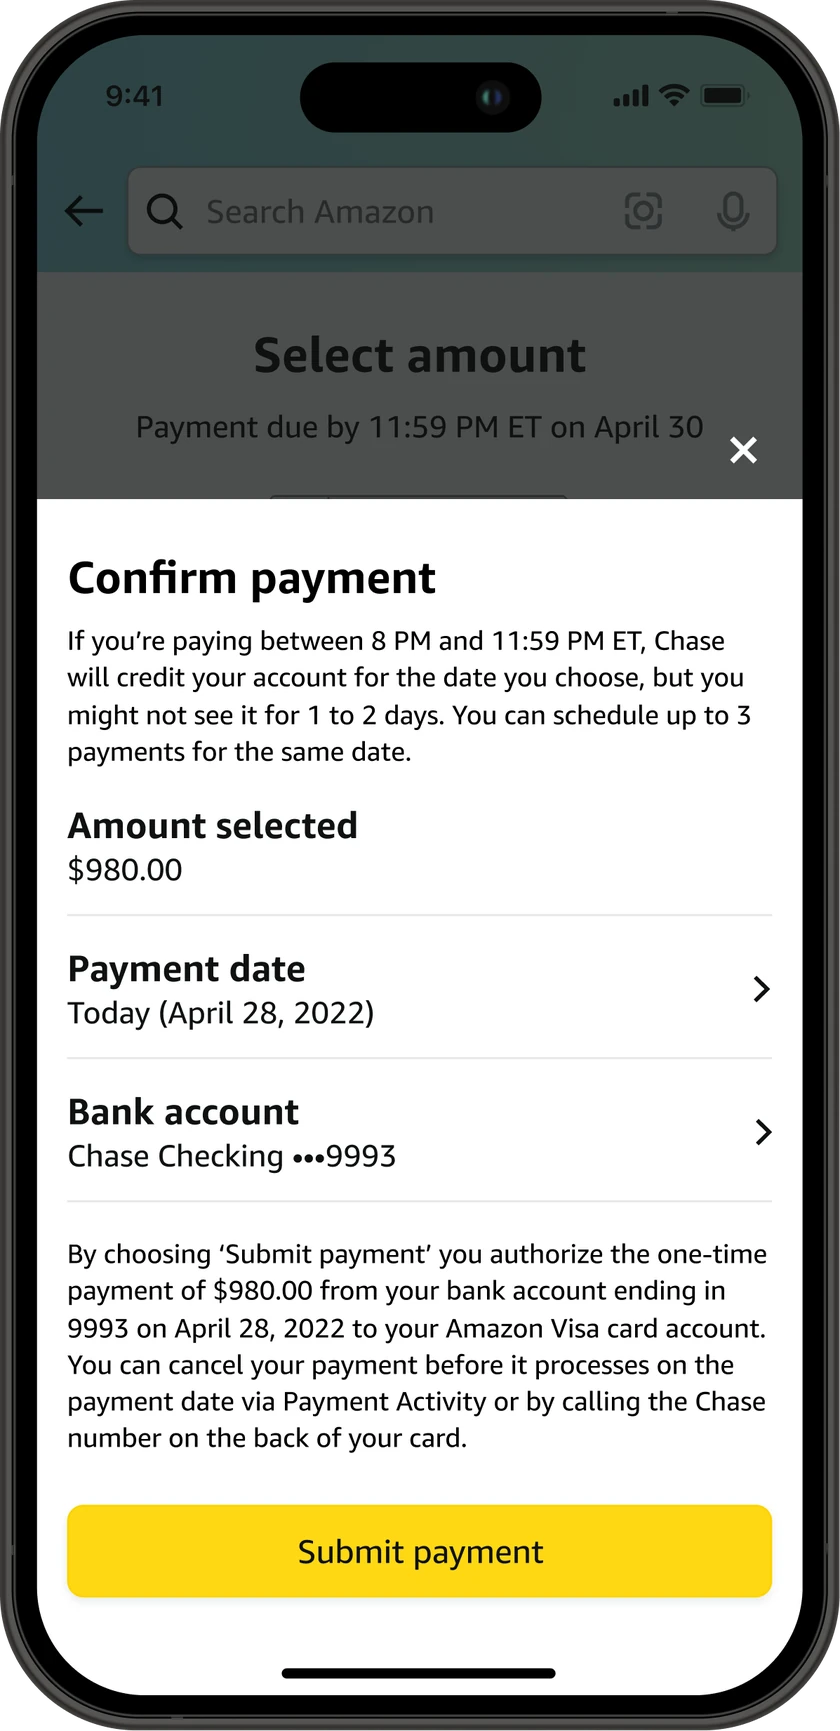
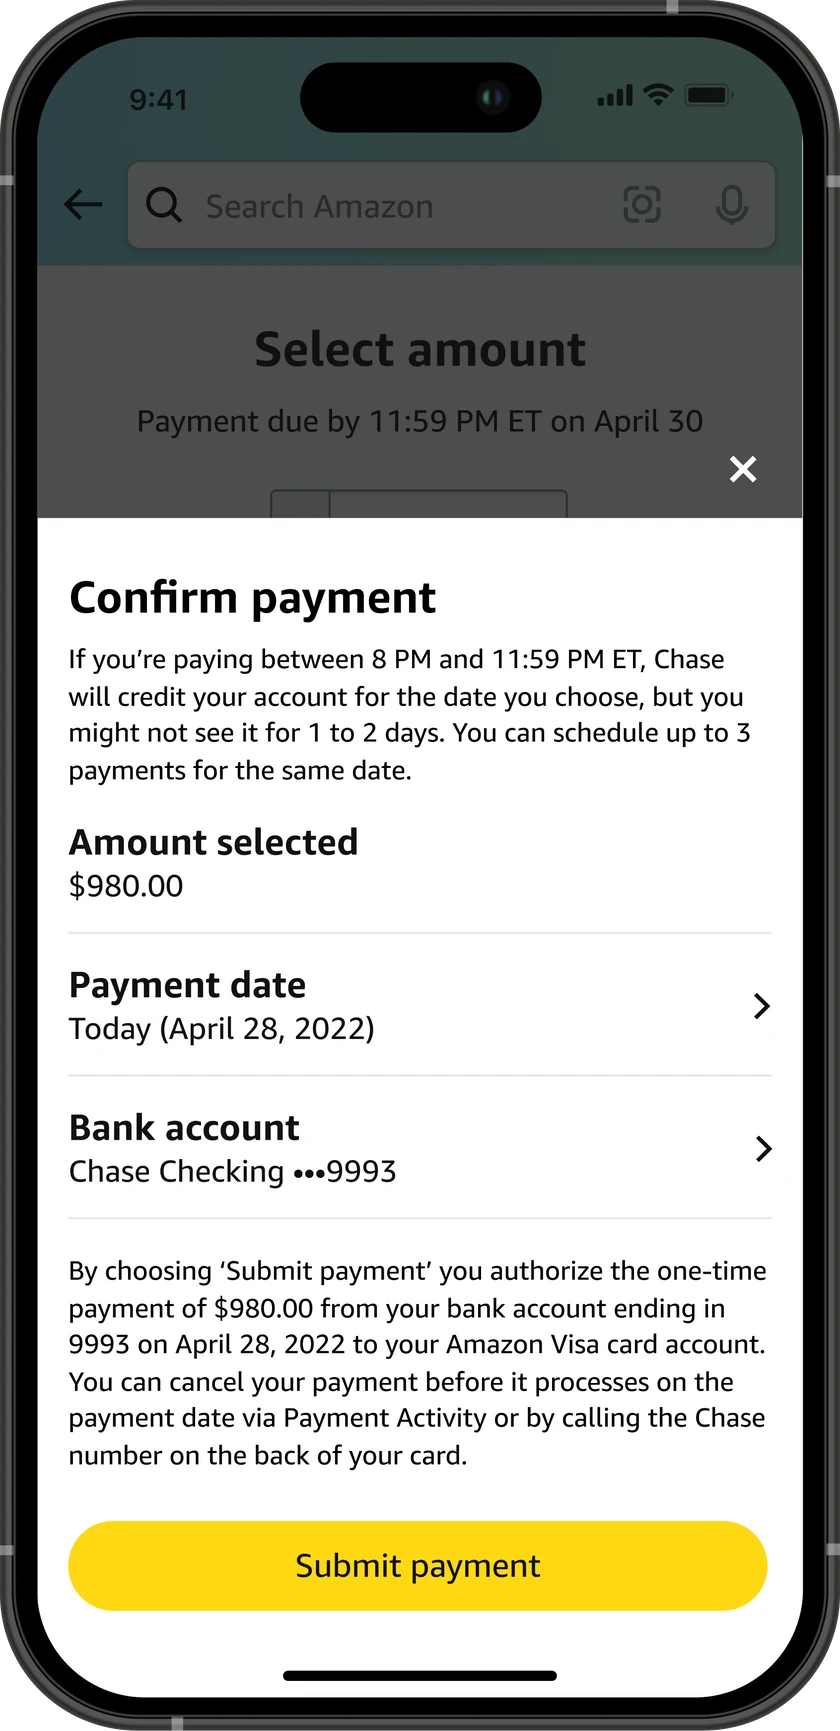
Rebuild the Pay Bill Confirm payment screen from node 2445:47493
Every figure and every word on the screen is identical. Two things moved:
the Submit payment button is a pill where it was a rounded rectangle, the
same change the Continue button made in iteration 66, and the whole screen
sits 17px lower, found by sliding the two ink row profiles against each
other rather than reading 640 differing rows as 640 changes.

Two of iteration 66's findings were checked and do not hold here, so they
are not repeated: the bezel is 37px in this and every other Pay Bill phone
asset, and the header search field is the same width in the same place.

Payment submitted beside it was left alone on purpose. That pair is two
different screens, not one screen twice, and the confirmation has no
button for a pill to disagree with.

840 x 1731 unchanged, so no markup attribute moved. Alt text and caption
still accurate word for word. Audit all clean, 8 pages x 5 viewports.

diff --git a/work/pay-bill.html b/work/pay-bill.html
@@ -341,6 +341,13 @@
           </figure>
         </div>
 
+        <!-- The two steps after the amount. The confirm sheet was rebuilt in
+             iteration 69 from node 2445:47493, which brings its Submit payment
+             button into line with the pill Continue button on the pair above;
+             nothing on it says anything different. Payment submitted was left
+             alone deliberately and it is not the iteration 66 situation: these
+             are two different screens rather than one screen twice, and the
+             submitted screen has no button to disagree about. -->
         <div class="shots shots--pair">
           <figure class="shot">
             <div class="shot__frame shot__frame--device">

diff --git a/DESIGN-SYSTEM.md b/DESIGN-SYSTEM.md
@@ -81,6 +81,7 @@ iterations/24-card-dashboard-goals-trim/  the second paragraph and the whole fou
 iterations/25-card-dashboard-team-role/  Card Dashboard section 03 replaced with the user's own team roster and a prose responsibilities sentence, retiring the UX working group paragraph and its five item .case-list. removed.html has both plus the old hero .case-meta Team value, which had to change in the same edit or the page stated the team two ways. Records why the rail keeps the short form, why 4&nbsp;Engineers carries a non-breaking space, and the two claims that came out of the copy and where each still lives on the page.
 iterations/26-card-dashboard-servicing-linked-only/  a one sentence factual correction in Card Dashboard section 04: servicing kept the top of the page for linked customers only, because on-Amazon servicing is gated on account linking, not "in both cases". No markup change. Also flags the framework figcaption's "hold fixed placement in both", which makes a similar claim about the header, quick action pills and balance and was left alone because it describes what is drawn on that board.
 iterations/27-card-dashboard-chase-linking/  Card Dashboard section 04 second paragraph: the unserved segment would not link their Chase account, not their "bank account", and they managed the card at Chase's app/website. Adds the gating rule that linking the Amazon and Chase accounts was required for on-Amazon servicing, which is what makes "most of the page was dead weight" follow rather than assert. Records why "bank account" was wrong here and right on Pay Bill, where it survives nine times.
+iterations/69-confirm-payment-new-frame/  **the Confirm payment screen rebuilt from the current Figma frame**, node `2445:47493`, asked for by pasting a screenshot of the live asset beside the node: *"update this image with this: [node-id=2445-47493]"*. `assets/img/pay-bill/otp-confirm-payment.webp` is the left half of the second `.shots--pair` in Pay Bill section 05, and `proc.py` here is the encoder of record for a file that had none, since iterations 08 through 11 cover the Pay Bill screens as a set without naming any one file or its crop. Everything below the docstring is a copy of iteration 67's, which is 66's, which is 65's: same keyer, same assertions, 840 x 1731, and that size is a constraint rather than a default because the pair's other half is `otp-payment-submitted.webp` and the two have to match. **Every figure and every word on the screen is identical**, $980.00 selected, Today (April 28, 2022), Chase Checking ***9993, the same 8 PM to 11:59 PM ET paragraph and the same authorization paragraph. Two things moved: the **Submit payment button is a pill** where it was a rounded rectangle, the same change the Continue button made in iteration 66, so this rebuild brings the section's button shapes into agreement rather than splitting them; and the **whole screen sits 17px lower**, about 8 CSS px where it renders, found by sliding the two dark ink row profiles against each other (mean absolute difference 59.1 at zero offset, 17.2 at +17), which is what accounts for the 640 rows a naive comparison flags as changed. **Two of iteration 66's findings were checked here and do not hold**, which is why they are not repeated: the bezel is not thinner, it is 37px at mid height in this file and in every other Pay Bill phone asset including the old generation, and the header search field has not widened, cropped from both files and compared it is the same width in the same place 17px lower. **Payment submitted was left alone on purpose and this is not the iteration 66 situation**, checked before deciding: that pair was one screen shown twice, where two button shapes read as two different screens, and this pair is two different screens of which the confirmation **has no button** for a pill to disagree with, and the same 37px bezel. What it does leave is section 05 holding two generations of the app's button shape, pills on the three rebuilt screens and rounded rectangles on the autopay, bank accounts and activity screens below; none of those is adjacent to a pill so nothing reads as a contradiction, and the nodes for those six are not known. Output 93,038 bytes against 97,146, alpha bbox (0, 0, 840, 1731), so no `width` or `height` attribute moved; the export was 1692 x 3487 on the same `#F5F5F5` with the same (63, 61, 59) bezel and the 505 background-run rows assertion passed, which is the check on the frame geometry. The alt text and caption did not change: the alt names the amount selected, the payment date, the bank account, the 8 PM cutoff and the button, all still true, and a button radius is not a fact a screen reader user needs. One comment was added to `work/pay-bill.html` above the pair recording the rebuild and why the right half was left. Ports 23629 and 23633, `/tmp/audit57.py` over 8 pages and 5 viewports **ALL CLEAN**, resolution ratio 1.06 at 1512 and 1.00 at 1280 and 1.21 at 390 for both halves, the 1.00 being the pair floor iteration 66 recorded and predating this work.
 iterations/68-thumbnail-slider-digit/  **the same digit on the home page thumbnail**, asked for as *"Update the slider image in thumbnail as well to reflect 245 at min pay"*. `assets/img/pay-bill/home-card.webp` rebuilt so its right hand phone reads **$245.40** as the minimum payment due instead of $235.40, which puts the home page on the same generation of the screen as the case study after iteration 67 changed it there. `proc.py` here is the encoder of record for this file, superseding iteration 65's, and everything below its docstring is a byte for byte copy of 65's, keyer and assertions and geometry alike, so the only thing that can have changed is the one source file meant to. **The left phone was re-downloaded and had not changed**: node `2445:43500` came back byte for byte identical to the copy iterations 65 and 66 both used, md5 `f8e91aa2af5727c8746b5faf9bd49f4b`, which is the only way to know the user did not adjust the radio screen while fixing the slider and is cheaper than reasoning about it. The right phone is iteration 67's third export of `2445:45969`, already on disk, so no second Figma call was needed. The output is unchanged in every respect but one: 1600 x 1200 RGBA, alpha bbox (236, 47, 1364, 1152), opaque column runs (236, 771) and (828, 1363), and 79,114 bytes before and after. Thresholding the difference between the outgoing and incoming WebPs at 60 gives **80 pixels in an 11 x 15 box at (1253, 695)**, inside the right phone's column run and nowhere near the left one. The threshold is the point: a raw diff on a lossy WebP covers the whole frame and says nothing, a trap this repo has fallen into before. The figure was then cropped from both files at 8x and read back rather than inferred, $235.40 against $245.40. **It is visible, just barely**: the digit is about 5 CSS px tall where the canvas renders 513 CSS px wide at 1512, which is readable on a 2x display and was read off a capture of the live card at both 1512 and 390, so this is a visible correction at the sizes the card is actually seen rather than only bookkeeping. Nothing in the markup or the copy moved. `index.html`'s alt names the custom amount field, the three radio labels, the $550.00 payment and the $13.65 charge and does not quote the minimum payment due, so it is still accurate word for word, and `width` and `height` stay 1600 and 1200. No page text in the repo cites either figure (grep); the only hits are iteration entries here, which are records of past states and correct as written. Resolution ratio 1.56 at 1512 and 2.73 at 390. Ports 23531 and 23537, `/tmp/audit57.py` over 8 pages and 5 viewports **ALL CLEAN**. **Still off, Figma side and untouched by this**: the minimum payment due still does not equal its neighbour, $245.67 on the radio screen against $245.40 on the slider, dollars agreeing and cents not, and both legible on this card as well as in Pay Bill section 05; the current balance disagrees, $1,341.10 against $1,341.00; and the Chase disclosure's second line runs under the tab bar.
 iterations/67-slider-minimum-digit/  **one digit on the slider screen**, asked for as *"Update the slider image then: [node-id=2445-45969]"* after iteration 66 reported that the two phones in Pay Bill section 05 disagreed about the minimum payment due. This is the **third** export of that node, and it differs from the second in exactly one place, proven rather than assumed: diffing the two 1692 x 3487 PNGs pixel for pixel gives a bounding box of (1342, 2046) to (1375, 2090), 33 x 44 px at 4x, one digit, **$235.40 becoming $245.40**. That negative result is as useful as the positive one, because it proves the other two open defects were untouched: the current balance still reads $1,341.00 against $1,341.10 on the screen beside it, and the Chase disclosure's second line still runs under the tab bar. And the figure that was fixed **still does not equal its neighbour**, $245.40 here against $245.67 there: the dollars agree and the cents do not, so the gap went from $10.27 to 27 cents rather than to nothing, and at 396 CSS px per phone both cent values are legible one above the other. Read off a screenshot digit by digit rather than inferred from the diff. `proc.py` here is the encoder of record for `slider-select-amount.webp`, superseding iteration 66's for that file only; 66's remains the encoder of record for `otp-select-amount.webp`, and everything below this one's docstring is a copy of 66's with the second job removed so the two halves of the pair cannot drift apart in keying or size. Keying is iteration 65's `load_keyed` for the third time and its assertion that 505 of 3487 rows carry a `#F5F5F5` run passes again, which is the check that Figma has not quietly changed the frame geometry between exports. 840 x 1731 again because the pair has to match, so no `width` or `height` attribute moved and the only edit to `work/pay-bill.html` is one clause naming this iteration. No alt text or caption changed: neither cites the minimum payment due, the caption names $13.65 and the alt "13 dollars 65 cents", and no published copy anywhere cites $235.40 or $245.40 (grep). Thresholding the difference between the outgoing and incoming **shipped** WebPs at 60 gives (666, 1016) to (682, 1038) and 180 pixels, so the digit is the only substantive change to survive the re-encode and the rest of the whole-image difference is lossy noise. `/tmp/audit57.py` over 8 pages and 5 viewports: **ALL CLEAN**.
 iterations/66-pay-bill-hero-new-frame/  **the Pay Bill case study hero rebuilt from the Figma frame the user supplied**, node `2445:43500`, asked for as *"Now can you update the hero image with: [node-id=2445-43500]"*. That node is the radio button Select amount screen, which is the left half of the pair iteration 65 built the home page thumbnail from and the screen this hero already showed, so the request is a straight replacement of an old export with the current one rather than a change of subject, and the thumbnail and the hero are now the same generation. The export was **not** re-downloaded: it is byte for byte iteration 65's `source/pb-phone1-4x.png`, copied in so this iteration stands alone, and asking Figma again would only risk a third export differing from the two already shipped. Keying is iteration 65's `load_keyed` unchanged, and its assertion that 505 of 3487 rows carry a `#F5F5F5` run still passes, which doubles as the check that the file is the same one; the one piece of that reasoning which does not transfer is the objection to iteration 60's convex fill, since that was about two phones sharing an image and these hold one each. **The slider screen was rebuilt too, and was not asked for.** Section 05 pairs the shipped screen with `slider-select-amount.webp` under a comment reading "Same screen, same export size, so the comparison is the point", and with only the hero rebuilt that pair rendered two phones at 396 CSS px each with **different Continue button shapes**, a pill against a rounded rectangle, which at that size reads as two different screens; it also put $245.67 next to **$35.40** for the same minimum payment due, an order of magnitude apart on a live page. Rebuilding the slider from the export already on disk fixed both, cost one encode, and introduced nothing, because the one defect in the new slider frame, the Chase disclosure's second line running under the tab bar, is already in the old asset. This was caught by looking at the rendered pair, not at the assets. **840 x 1731 is a constraint, not a default**: the hero is sized by `--case-hero-phone-h` so its intrinsic width is only a resolution ceiling, but the pair's two halves have to match, so both files keep their width even though the 1692px sources could give 940 like `basket-building/bundle-carousel.webp`. The real resolution floor on the page is the pair and it predates this work, 419.2 CSS px per half at 1280 against 840 natural, a ratio of exactly 1.00, no headroom, which is the argument for moving both to 940 together some day. What changed on the screens, measured by profiling dark ink rows rather than guessed: the Continue button became a pill on both, the search bar is slightly wider and the bezel a hair thinner on both, the radio screen sits about 6px higher at this size, and the slider's minimum payment due went from $35.40 to $235.40. Every other figure is untouched, none of them appears in any published copy (grep), and no alt text changed, since all three already named every item on their screen in order and a button radius is not a fact a screen reader user needs. Verified at DPR 2 across 1512, 1280, 860, 744 and 390 with reveals forced and every image eager and complete: `/tmp/audit57.py` over 8 pages and 5 viewports **ALL CLEAN** both before and after the slider rebuild, no document overflow, hero resolution ratio floor 1.38, the pair's two halves the same box at all five widths, and the keyed corners looked at rather than only measured. The light grey slivers at the bezel edges are the phone's own side buttons and were in the old asset too, confirmed by comparing column 0's opaque runs. **Still off and Figma side, none of it introduced here**: the minimum payment due disagrees between the two phones, $245.67 against $235.40, and so does the current balance, $1,341.10 against $1,341.00, and both are now legible side by side where the thumbnail only ever showed them at 171 CSS px per phone, so this is the surface where they matter.
